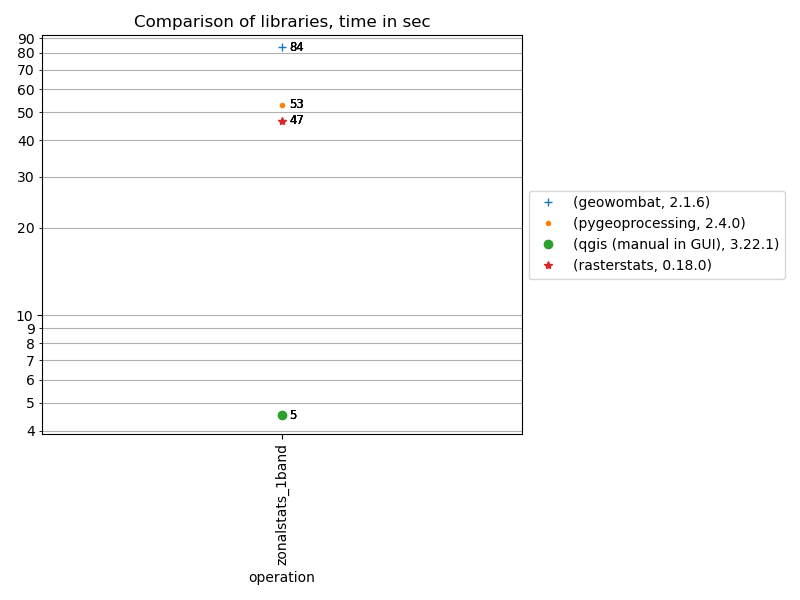
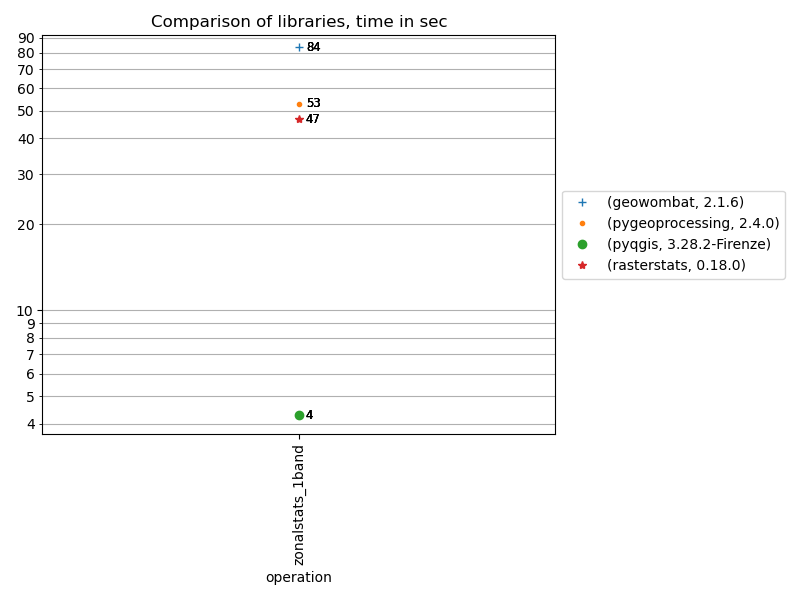
Add zonalstats pyqgis benchmark (#25)

diff --git a/benchmarks_zonalstats/benchmarks_pyqgis.py b/benchmarks_zonalstats/benchmarks_pyqgis.py
@@ -3,13 +3,15 @@
 Module to benchmark zonalstats.
 """
 
-from datetime import datetime
 import logging
+from datetime import datetime
 from pathlib import Path
 from typing import List
 
 import geopandas as gpd
-import pygeoprocessing.geoprocessing
+import pandas as pd
+import qgis.core  # type: ignore
+import qgis.analysis  # type: ignore
 
 from benchmarker import RunResult
 from benchmarks_zonalstats import _common as common
@@ -27,11 +29,11 @@ logger = logging.getLogger(__name__)
 
 
 def _get_package() -> str:
-    return "pygeoprocessing"
+    return "pyqgis"
 
 
 def _get_version() -> str:
-    return f"{pygeoprocessing.__version__}".replace("v", "")  # type: ignore
+    return f"{qgis.core.Qgis.QGIS_VERSION}".replace("v", "")
 
 
 def zonalstats_1band(tmp_dir: Path) -> List[RunResult]:
@@ -50,9 +52,43 @@ def zonalstats_1band(tmp_dir: Path) -> List[RunResult]:
     start_time = datetime.now()
     #  1.000: 10s
     # 10.000: 97s
-    stats = pygeoprocessing.geoprocessing.zonal_statistics(
-        (str(raster_path), 1), str(vector_tmp_path), polygons_might_overlap=True
+
+    # Inits app
+    # QgsApplication.setPrefixPath(path_to_qgis, True)
+    qgs = qgis.core.QgsApplication([], False)
+    qgs.initQgis()
+
+    # Reads the input file
+    vlayer = qgis.core.QgsVectorLayer(str(vector_tmp_path), vector_tmp_path.stem, "ogr")
+
+    # Calculates zonal stats with raster
+    raster = qgis.core.QgsRasterLayer(str(raster_path))
+    stats = (
+        qgis.analysis.QgsZonalStatistics.Count
+        | qgis.analysis.QgsZonalStatistics.Sum
+        | qgis.analysis.QgsZonalStatistics.Mean
     )
+    zoneStats = qgis.analysis.QgsZonalStatistics(
+        vlayer,
+        raster,
+        stats=stats,
+    )
+    zoneStats.calculateStatistics(None)
+
+    columns = [f.name() for f in vlayer.fields()] + ["geometry"]
+    # columns_types = [f.typeName() for f in vlayer.fields()]
+    data = [
+        dict(zip(columns, f.attributes() + [f.geometry().asWkt()]))
+        for f in vlayer.getFeatures()
+    ]
+
+    df = pd.DataFrame(data, columns=columns)
+    df["geometry"] = gpd.GeoSeries.from_wkt(df["geometry"])
+    stats = gpd.GeoDataFrame(
+        df, geometry="geometry", crs=vlayer.crs().toWkt()  # type: ignore
+    )
+    del vlayer
+
     print(stats)
 
     secs_taken = (datetime.now() - start_time).total_seconds()

diff --git a/benchmarks_zonalstats/_benchmarks_pyjeo.py b/benchmarks_zonalstats/_benchmarks_pyjeo.py
@@ -1,6 +1,6 @@
 # -*- coding: utf-8 -*-
 """
-Module to benchmark geopandas operations using pyogrio for IO.
+Module to benchmark zonalstats.
 """
 
 from datetime import datetime
@@ -67,7 +67,7 @@ def zonalstats_1band(tmp_dir: Path) -> List[RunResult]:
         RunResult(
             package=_get_package(),
             package_version=_get_version(),
-            operation="zonalstats",
+            operation="zonalstats_1band",
             secs_taken=secs_taken,
             operation_descr=(
                 f"zonalstats of agri parcels ({nb_poly} polygons) + S2 NDVI BEFL"

diff --git a/benchmarks_zonalstats/benchmarks_geowombat.py b/benchmarks_zonalstats/benchmarks_geowombat.py
@@ -1,6 +1,6 @@
 # -*- coding: utf-8 -*-
 """
-Module to benchmark geopandas operations using pyogrio for IO.
+Module to benchmark zonalstats.
 """
 
 from datetime import datetime
@@ -66,7 +66,7 @@ def zonalstats_1band(tmp_dir: Path) -> List[RunResult]:
         RunResult(
             package=_get_package(),
             package_version=_get_version(),
-            operation="zonalstats",
+            operation="zonalstats_1band",
             secs_taken=secs_taken,
             operation_descr=(
                 f"zonalstats of agri parcels ({nb_poly} polygons) + S2 NDVI BEFL"

diff --git a/run_benchmarks_zonalstats.py b/run_benchmarks_zonalstats.py
@@ -10,7 +10,8 @@ def main():
             results_subdir="results_zonalstats",
             # modules=["benchmarks_rasterstats"],
             # modules=["benchmarks_pygeoops"],
-            modules=["benchmarks_geowombat"],
+            # modules=["benchmarks_geowombat"],
+            modules=["benchmarks_pyqgis"],
         )
         return
 

diff --git a/benchmarks_zonalstats/benchmarks_rasterstats.py b/benchmarks_zonalstats/benchmarks_rasterstats.py
@@ -1,6 +1,6 @@
 # -*- coding: utf-8 -*-
 """
-Module to benchmark geopandas operations using pyogrio for IO.
+Module to benchmark zonalstats.
 """
 
 import logging
